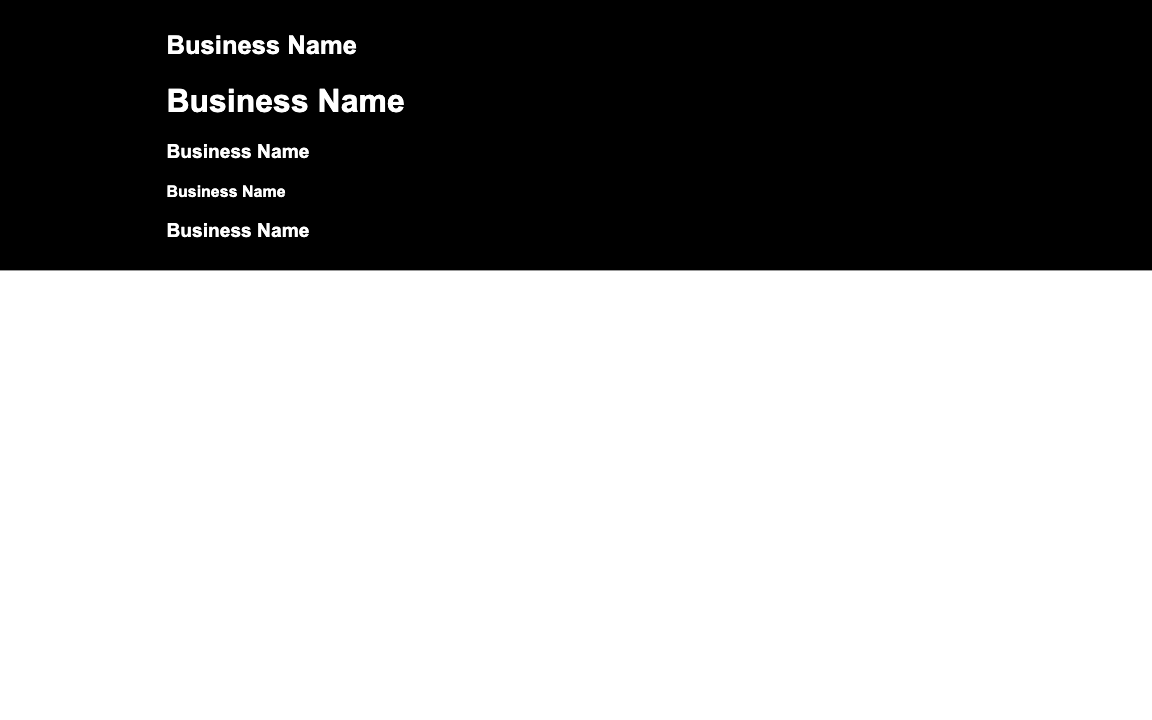
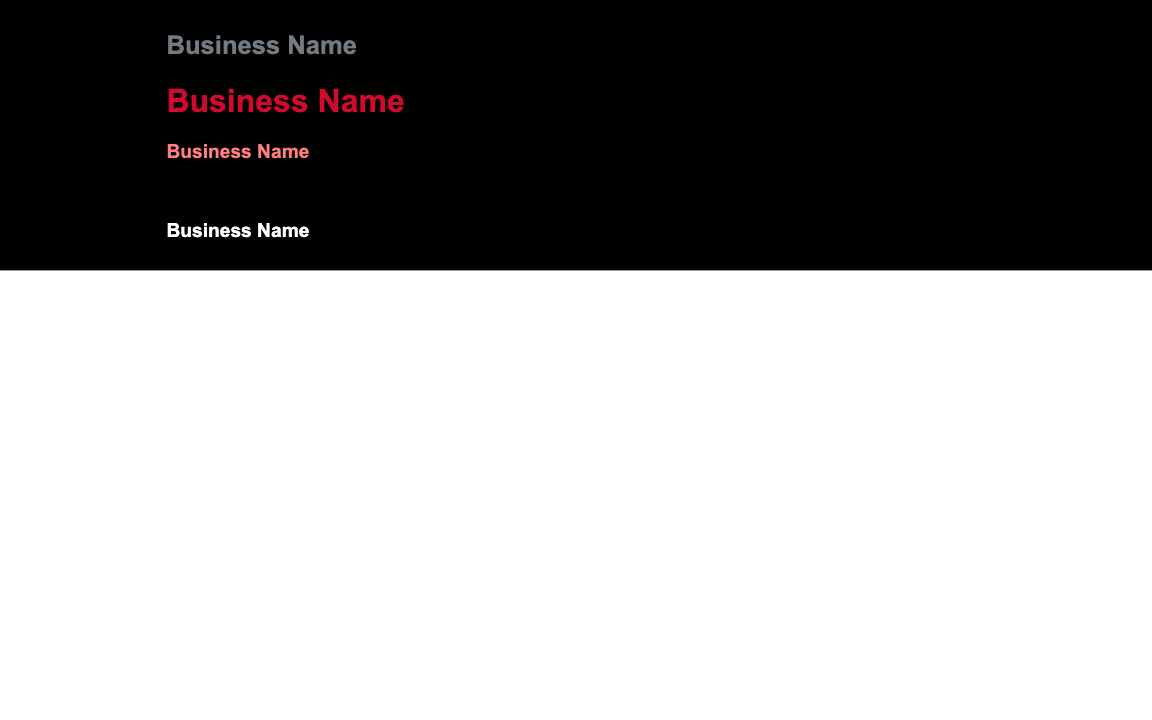
fixed darkbg issues

Changed region(s): [[0.125, 0.1833, 0.2812, 0.275], [0.125, 0.0306, 0.3125, 0.0917], [0.125, 0.1222, 0.375, 0.1528]]

diff --git a/packages/visual-editor/src/components/atoms/heading.tsx b/packages/visual-editor/src/components/atoms/heading.tsx
@@ -1,11 +1,10 @@
-import * as React from "react";
-import { cva, type VariantProps } from "class-variance-authority";
 import {
   BackgroundStyle,
   HeadingLevel,
   themeManagerCn,
-  useBackground,
 } from "@yext/visual-editor";
+import { cva, type VariantProps } from "class-variance-authority";
+import * as React from "react";
 
 // Define the variants for the heading component
 export const headingVariants = cva("components", {
@@ -97,12 +96,9 @@ export const Heading = React.forwardRef<HTMLHeadingElement, HeadingProps>(
       "h1" | "h2" | "h3" | "h4" | "h5" | "h6" | "span"
     >;
 
-    const isDarkBG = useBackground()?.isDarkBackground;
-
-    const dynamicStyle =
-      !isDarkBG && color?.bgColor
-        ? { color: `var(--colors-${normalize(color.bgColor)})` }
-        : undefined;
+    const dynamicStyle = color?.bgColor
+      ? { color: `var(--colors-${normalize(color.bgColor)})` }
+      : undefined;
 
     return (
       <Tag
